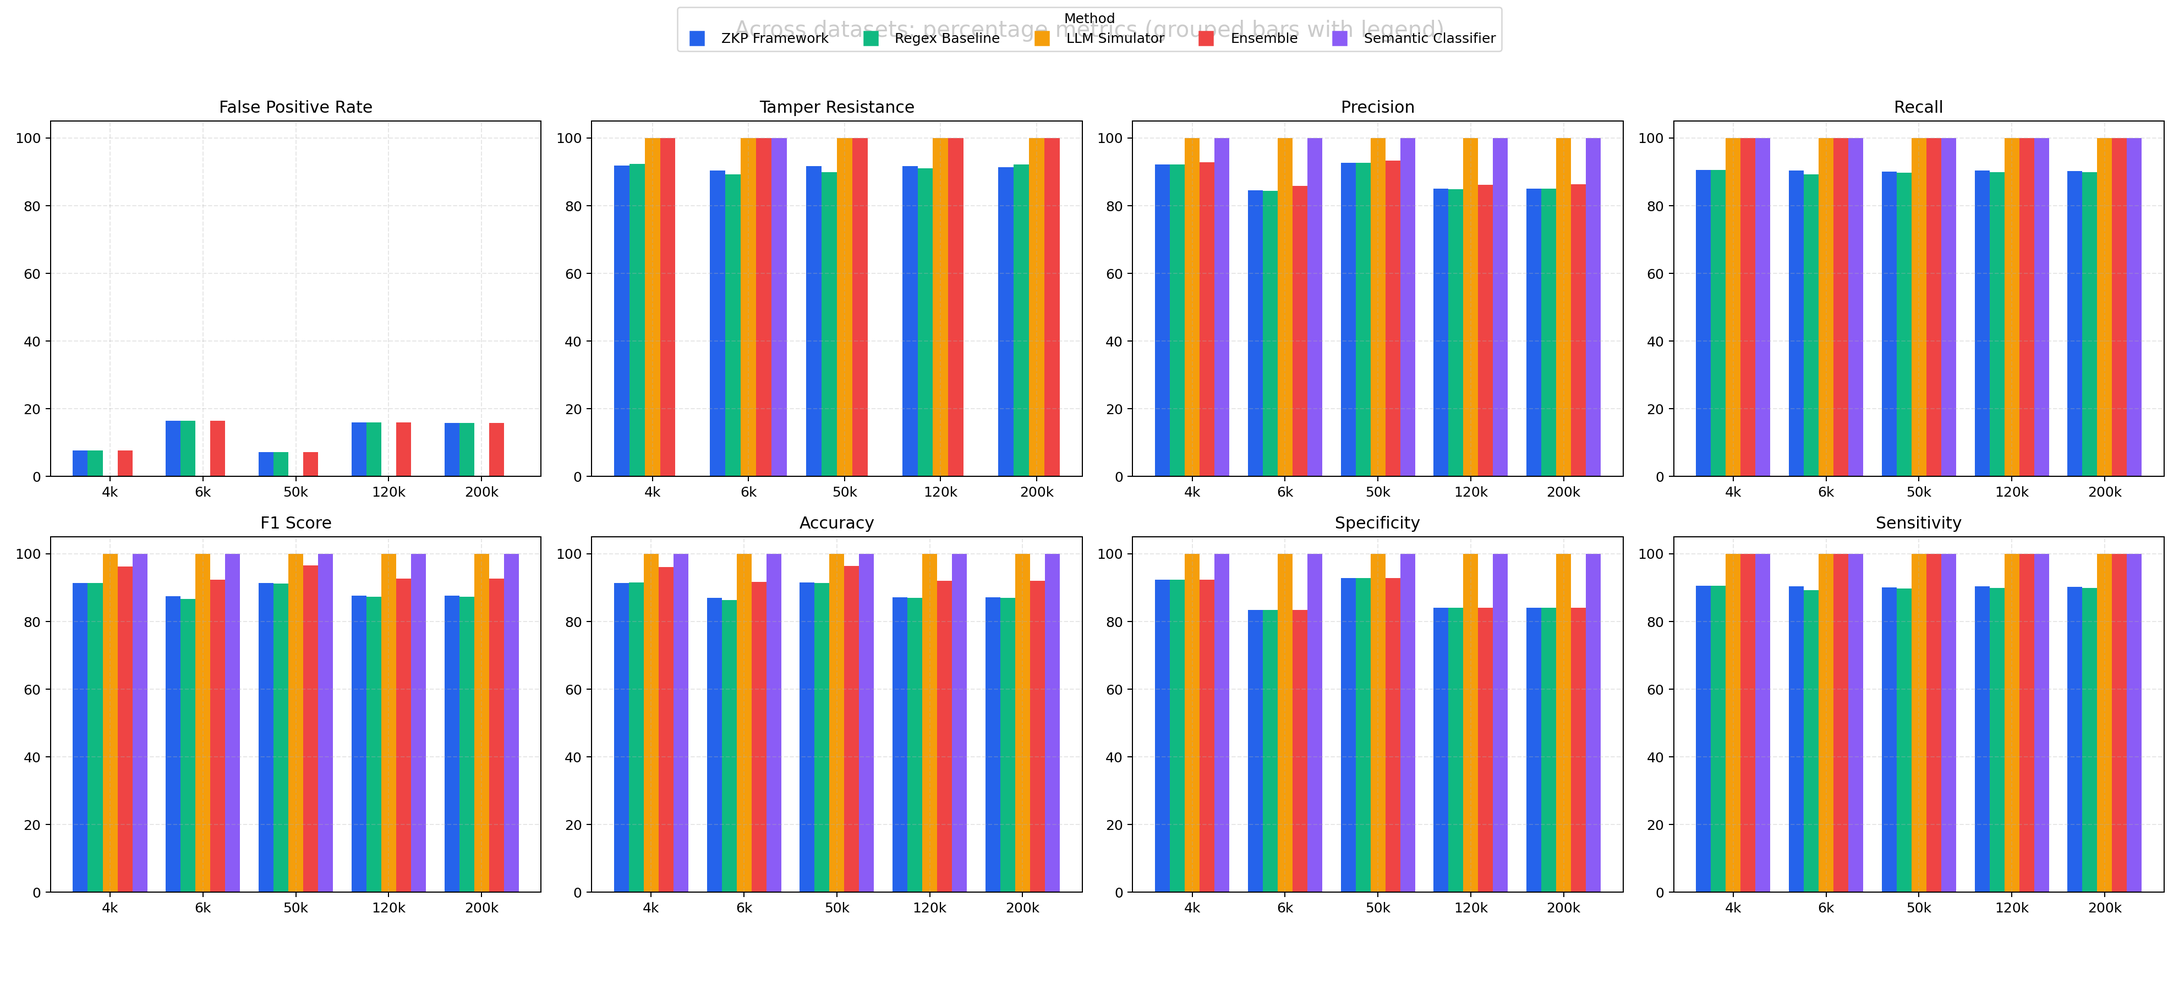
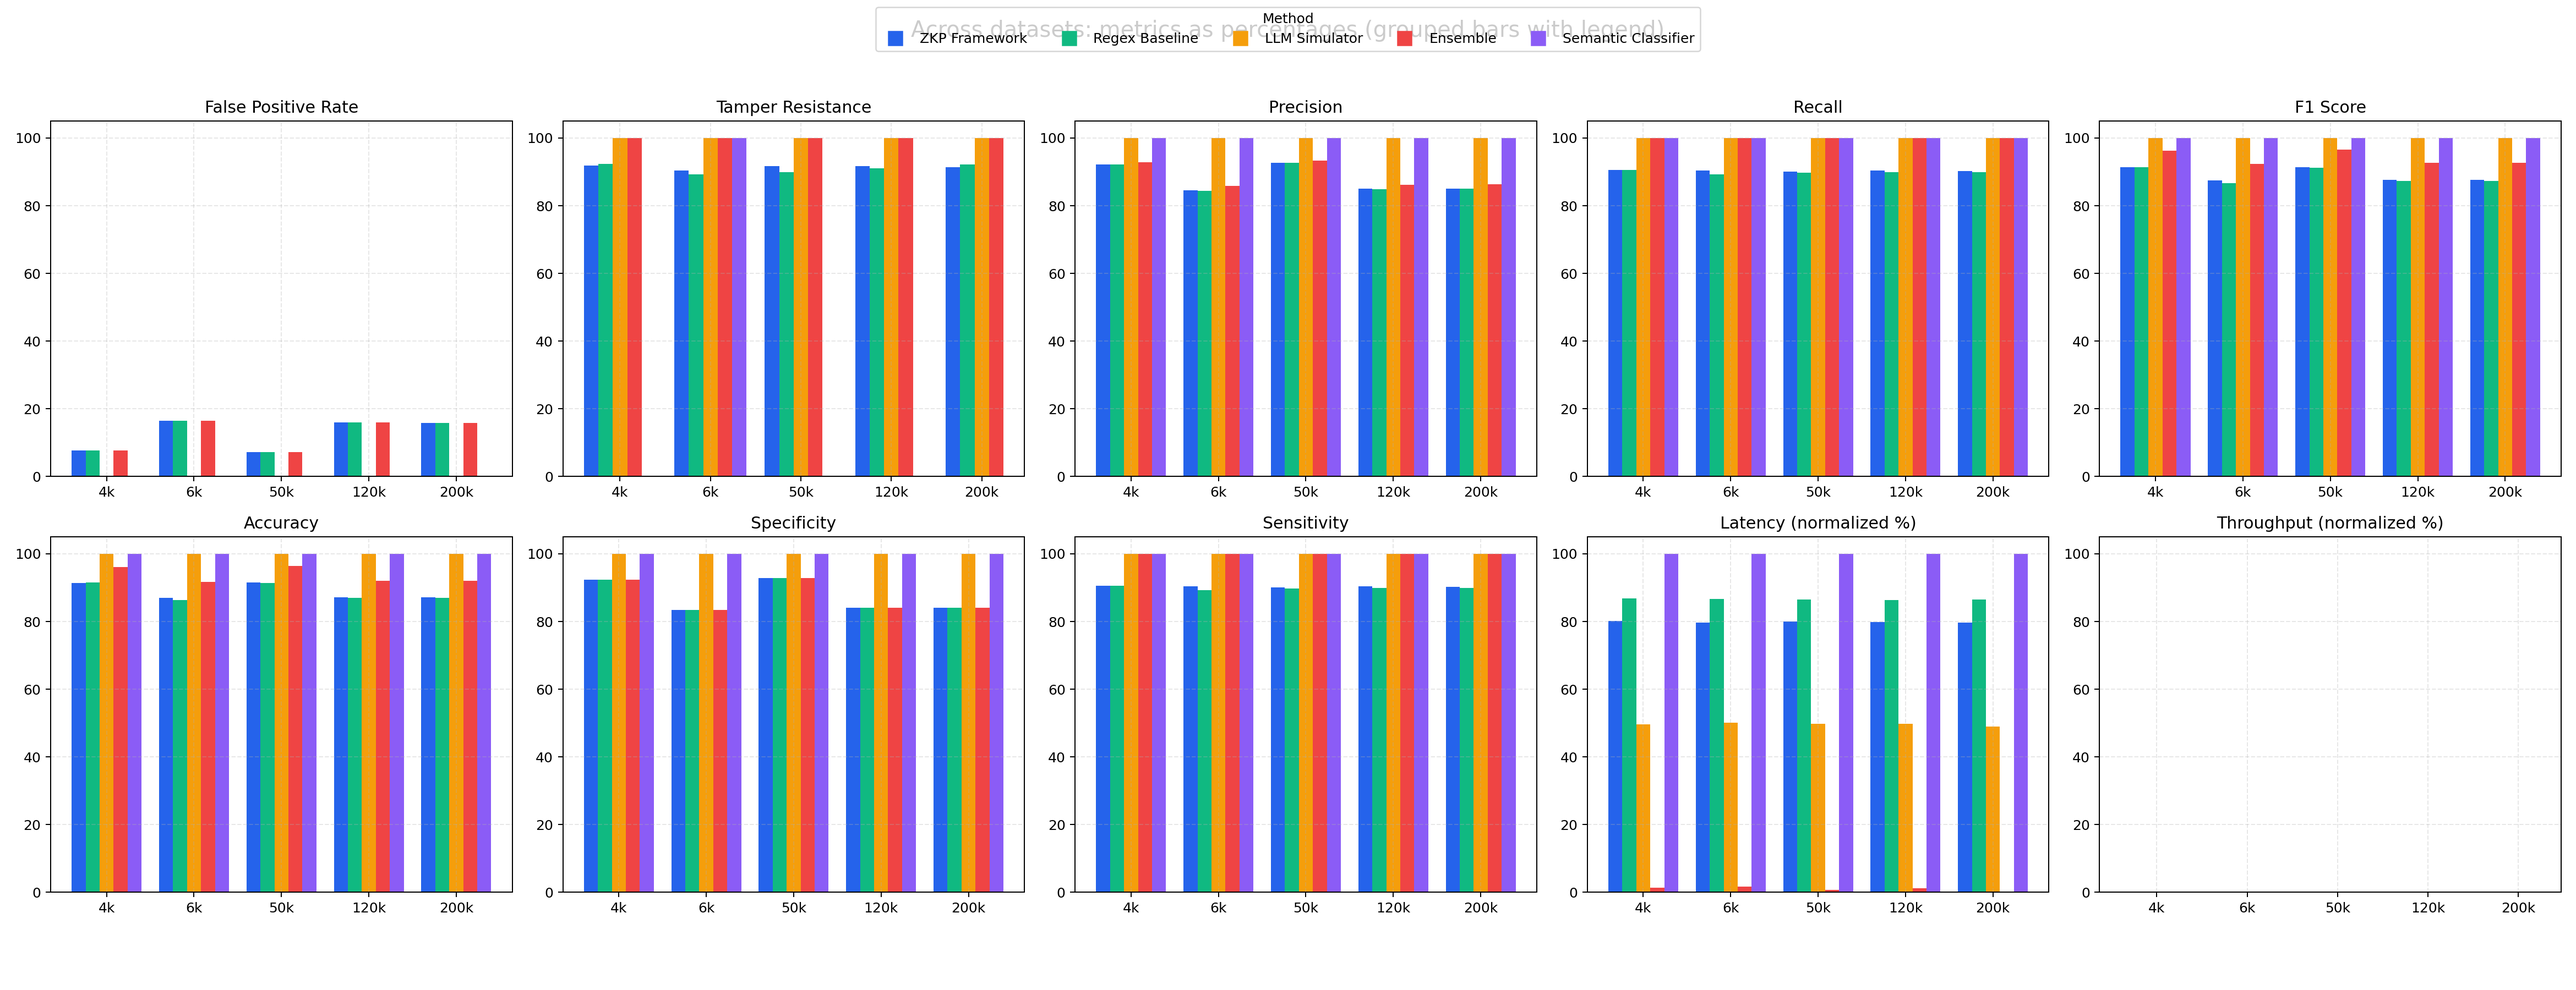
Dashboard: include normalized latency and throughput as % in all-in-one grouped bars

diff --git a/tools/aggregate_across_datasets.py b/tools/aggregate_across_datasets.py
@@ -216,29 +216,73 @@ def main(out_dir: str = "results_cross_dataset") -> None:
             plt.savefig(outp, dpi=170)
             plt.close()
 
-    # 5) All-in-one grouped bar dashboard across datasets (percentage metrics)
+    # 5) All-in-one grouped bar dashboard across datasets
+    # Include native percentage metrics AND normalized latency/throughput as percentages
     pct_metrics = [(mk, mlabel, scale, is_pct) for mk, mlabel, scale, is_pct in METRICS if is_pct]
     if dataset_frames and present_methods:
-        fig, axes = plt.subplots(2, 4, figsize=(22, 10))
-        fig.suptitle('Across datasets: percentage metrics (grouped bars with legend)', fontsize=16)
+        # Compute global min/max for latency and throughput to normalize to %
+        all_latency: List[float] = []
+        all_throughput: List[float] = []
+        for _, df in dataset_frames:
+            for m in present_methods:
+                if m in df.index:
+                    if 'latency_ms' in df.columns:
+                        try:
+                            all_latency.append(float(df.loc[m]['latency_ms']))
+                        except Exception:
+                            pass
+                    if 'throughput_rpm' in df.columns:
+                        try:
+                            all_throughput.append(float(df.loc[m]['throughput_rpm']))
+                        except Exception:
+                            pass
+        lat_min, lat_max = (min(all_latency), max(all_latency)) if all_latency else (0.0, 1.0)
+        thr_min, thr_max = (min(all_throughput), max(all_throughput)) if all_throughput else (0.0, 1.0)
+
+        # Build metric spec including normalized latency/throughput
+        dashboard_specs = pct_metrics + [
+            ('latency_ms_norm_pct', 'Latency (normalized %)', 1.0, True),
+            ('throughput_rpm_norm_pct', 'Throughput (normalized %)', 1.0, True),
+        ]
+
+        fig, axes = plt.subplots(2, 5, figsize=(26, 10))
+        fig.suptitle('Across datasets: metrics as percentages (grouped bars with legend)', fontsize=16)
         palette = ['#2563EB', '#10B981', '#F59E0B', '#EF4444', '#8B5CF6', '#14B8A6', '#F97316']
         method_colors = {m: palette[i % len(palette)] for i, m in enumerate(present_methods)}
         x = list(range(len(x_labels)))
         total_width = 0.8
         bar_width = total_width / max(1, len(present_methods))
-        for idx, (mk, mlabel, scale, is_pct) in enumerate(pct_metrics[:8]):
-            r = idx // 4
-            c = idx % 4
+        for idx, (mk, mlabel, scale, is_pct) in enumerate(dashboard_specs[:10]):
+            r = idx // 5
+            c = idx % 5
             ax = axes[r][c]
             # For each method, compute values across datasets
             for mi, method in enumerate(present_methods):
                 vals = []
                 for _, df in dataset_frames:
-                    if method in df.index and mk in df.columns:
-                        v = float(df.loc[method][mk])
-                        vals.append(v * scale)
-                    else:
-                        vals.append(float('nan'))
+                    v_out = float('nan')
+                    if method in df.index:
+                        if mk == 'latency_ms_norm_pct' and 'latency_ms' in df.columns and lat_max > lat_min:
+                            try:
+                                v = float(df.loc[method]['latency_ms'])
+                                # lower latency -> higher %
+                                v_out = (lat_max - v) / (lat_max - lat_min) * 100.0
+                            except Exception:
+                                v_out = float('nan')
+                        elif mk == 'throughput_rpm_norm_pct' and 'throughput_rpm' in df.columns and thr_max > thr_min:
+                            try:
+                                v = float(df.loc[method]['throughput_rpm'])
+                                # higher throughput -> higher %
+                                v_out = (v - thr_min) / (thr_max - thr_min) * 100.0
+                            except Exception:
+                                v_out = float('nan')
+                        elif mk in df.columns:
+                            try:
+                                v = float(df.loc[method][mk])
+                                v_out = v * scale
+                            except Exception:
+                                v_out = float('nan')
+                    vals.append(v_out)
                 offsets = [xi + (mi - len(present_methods)/2) * bar_width + bar_width/2 for xi in x]
                 ax.bar(offsets, vals, width=bar_width, color=method_colors[method], label=method if idx == 0 else None)
             ax.set_title(mlabel)
